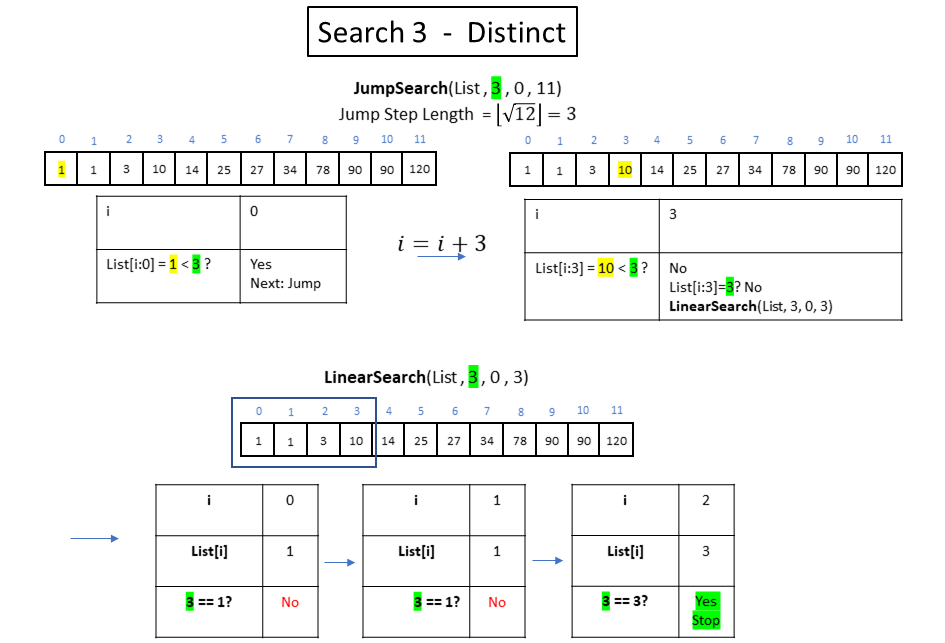
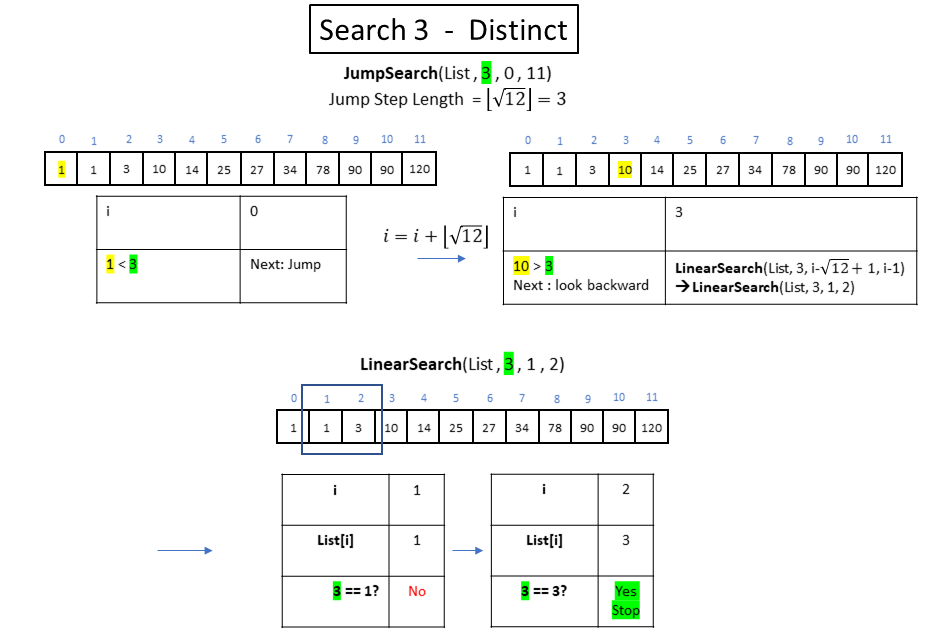
updated images for jump search correcting bugs

diff --git a/Source/Algorithms/Search/JumpSearch.cs b/Source/Algorithms/Search/JumpSearch.cs
@@ -67,12 +67,12 @@ namespace CSFundamentals.Algorithms.Search
                 return nextIndex;
             }
 
-            int linearSearchStartIndex = nextIndex - jumpStepLength; // Jump backward. 
+            int linearSearchStartIndex = nextIndex - jumpStepLength + 1; // Jump backward. 
             if (linearSearchStartIndex < 0)
             {
                 return -1;
             }
-            return LinearSearch.Search(sortedList, key, linearSearchStartIndex, nextIndex);
+            return LinearSearch.Search(sortedList, key, linearSearchStartIndex, nextIndex - 1);
         }
 
         // TODO: Write a recursive version as well. 
